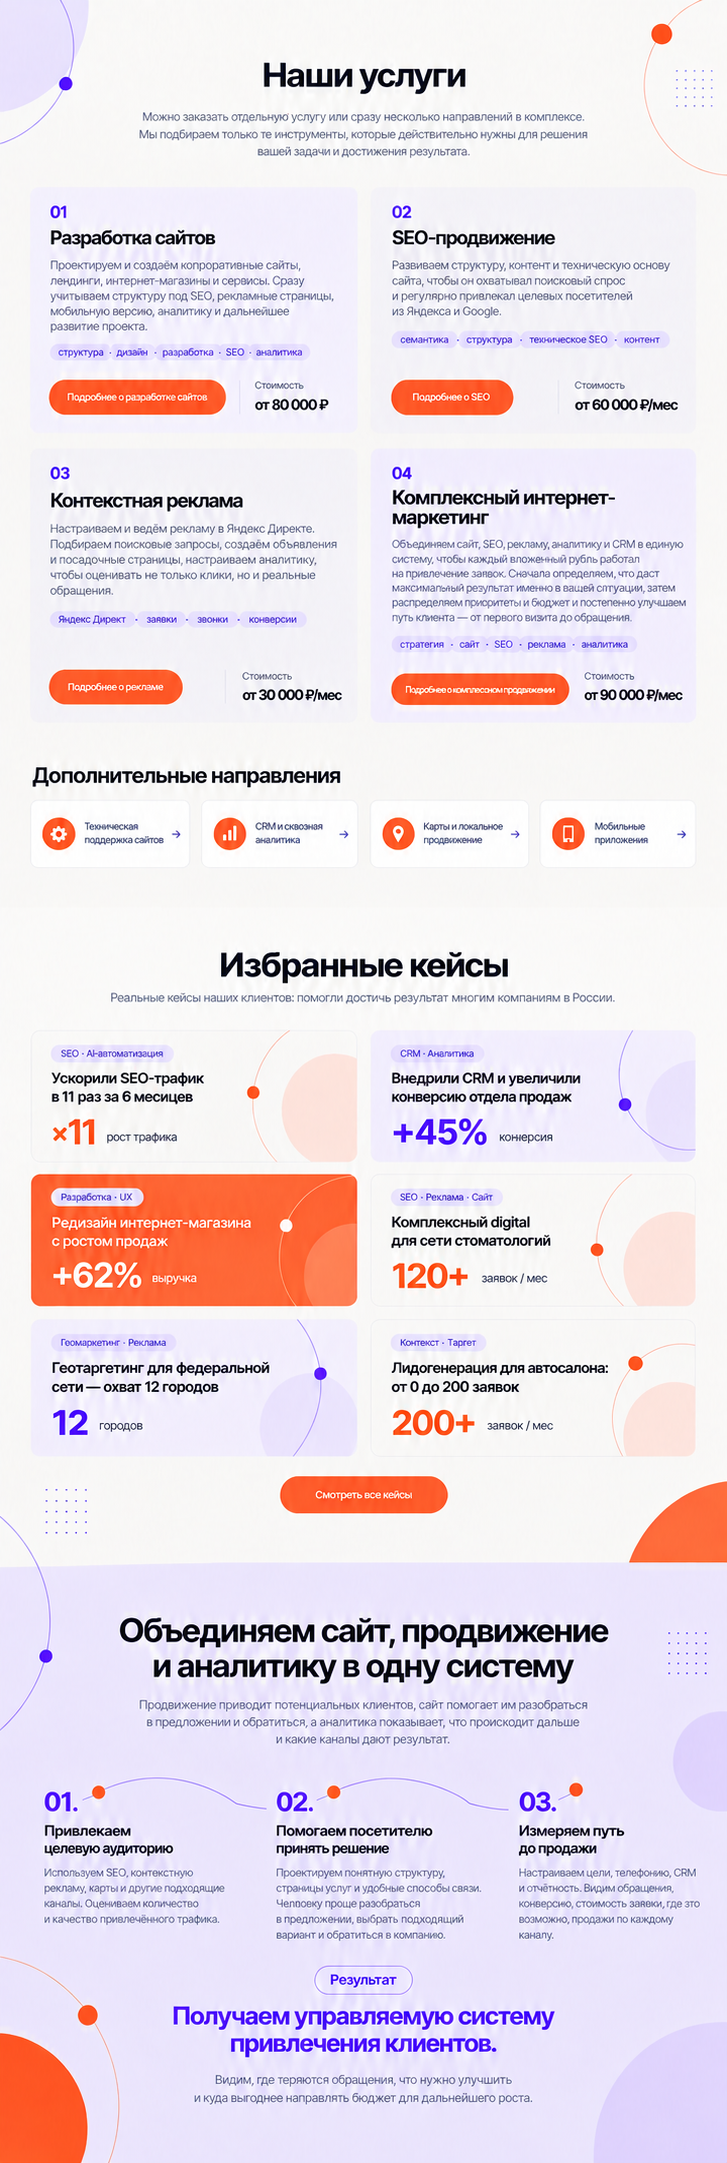
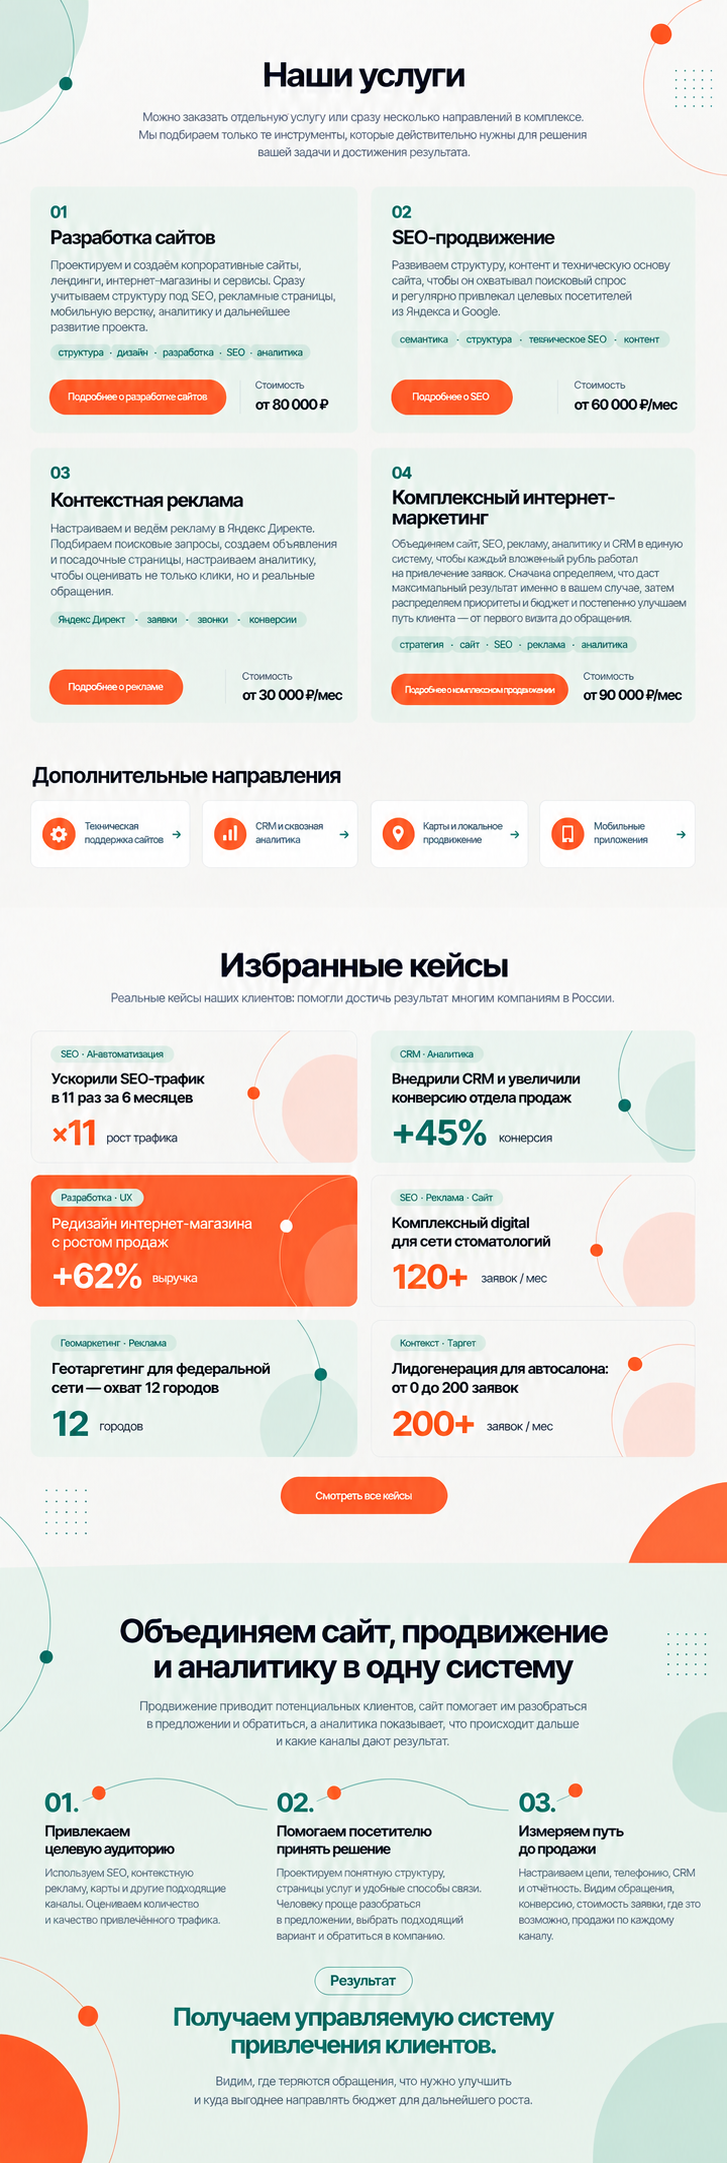
Replace purple palette in concept 05 with emerald and mint

diff --git a/concepts/new-version/index.html b/concepts/new-version/index.html
@@ -55,17 +55,17 @@
       </article>
 
       <article class="variant" id="variant-05" data-number="05">
-        <a class="preview" href="assets/variant-05.png" data-open="05" aria-label="Рассмотреть вариант 5: Масштаб и живая лента">
-          <img src="assets/variant-05.png" width="1536" height="1024" alt="Главная A1: центрированный заголовок, фиолетовые и оранжевые круги по краям, лента услуг внизу." loading="eager" decoding="async">
+        <a class="preview" href="assets/variant-05.png?v=20261008-emerald" data-open="05" aria-label="Рассмотреть вариант 5: Масштаб и живая лента">
+          <img src="assets/variant-05.png?v=20261008-emerald" width="1536" height="1024" alt="Главная A1: центрированный заголовок, мятные и оранжевые круги по краям, лента услуг внизу." loading="eager" decoding="async">
           <span class="preview-label" aria-hidden="true">Рассмотреть <svg viewBox="0 0 24 24" aria-hidden="true"><path d="M6 18 18 6M6 6h12v12"/></svg></span>
         </a>
         <div class="variant-body">
           <div class="variant-heading"><span class="variant-number">Вариант 05</span><h2>Масштаб и живая лента</h2></div>
-          <p class="description">Светлая композиция с большим заголовком по центру. Фиолетовая и оранжевая графика обрамляет текст, а лента внизу знакомит с направлениями агентства.</p>
+          <p class="description">Светлая композиция с большим заголовком по центру. Изумрудная и оранжевая графика обрамляет текст, а лента внизу знакомит с направлениями агентства.</p>
           <details><summary>Идея анимации</summary><p>Лента услуг медленно движется по горизонтали и останавливается при взаимодействии с ней.</p></details>
           <a class="text-link continuation-link" href="extended/05.html">Смотреть продолжение страницы</a>
           <div class="variant-actions">
-            <a class="text-link" href="assets/variant-05.png" data-open="05">Рассмотреть макет <svg viewBox="0 0 24 24" aria-hidden="true"><path d="M6 18 18 6M6 6h12v12"/></svg></a>
+            <a class="text-link" href="assets/variant-05.png?v=20261008-emerald" data-open="05">Рассмотреть макет <svg viewBox="0 0 24 24" aria-hidden="true"><path d="M6 18 18 6M6 6h12v12"/></svg></a>
             <button class="button choose-button" type="button" data-choose="05" aria-label="Выбрать вариант 5: Масштаб и живая лента" aria-pressed="false" hidden>Выбрать</button>
           </div>
         </div>

diff --git a/concepts/new-version/extended/05.html b/concepts/new-version/extended/05.html
@@ -24,8 +24,8 @@
     </div>
     <div class="canvas-viewport" tabindex="0" aria-label="Прокручиваемый макет">
       <div class="composition" id="composition">
-        <img class="hero-image" src="../assets/variant-05.png" width="1536" height="1024" alt="Первый экран: Масштаб и живая лента" fetchpriority="high" decoding="async">
-        <img class="continuation-image" src="assets/continuation-05.png?v=20261008-spacing" width="727" height="2163" alt="Продолжение варианта 05: четыре основные услуги и дополнительные направления, шесть кейсов, три элемента системы привлечения клиентов и результат. Все тексты доступны ниже." decoding="async">
+        <img class="hero-image" src="../assets/variant-05.png?v=20261008-emerald" width="1536" height="1024" alt="Первый экран: Масштаб и живая лента" fetchpriority="high" decoding="async">
+        <img class="continuation-image" src="assets/continuation-05.png?v=20261008-emerald" width="727" height="2163" alt="Продолжение варианта 05: четыре основные услуги и дополнительные направления, шесть кейсов, три элемента системы привлечения клиентов и результат. Все тексты доступны ниже." decoding="async">
       </div>
     </div>
     <div class="review-bottom">

diff --git a/concepts/new-version/extended/README.md b/concepts/new-version/extended/README.md
@@ -3,7 +3,7 @@
 8 октября 2026 года по запросу пользователя подготовлены продолжения трёх выбранных направлений V3. Каждая страница показывает исходный первый экран без изменений и отдельный длинный статичный макет услуг, кейсов и системного подхода.
 
 - `04.html` — «Живая типографика»: открытые строки услуг, коралловые акценты, тёмный блок кейсов.
-- `05.html` — «Масштаб и живая лента»: светлая композиция, фиолетово-оранжевая круговая графика и цветные карточки.
+- `05.html` — «Масштаб и живая лента»: светлая композиция, изумрудно-оранжевая круговая графика и мятные карточки.
 - `07.html` — «Поток — больше воздуха»: кремовые разделы, металлические ленты, тёмно-зелёные кейсы. Пояснение и два действия расположены под первым экраном.
 
 Макеты созданы встроенным генератором изображений для сравнения дизайна. Это фрагменты главной для компьютера, а не готовые страницы сайта. Управление галереей адаптировано под узкий экран; кнопку «Крупнее» можно использовать для просмотра деталей. Без JavaScript страницы и переключение вариантов остаются доступны.
@@ -13,3 +13,5 @@
 Исходные PNG первых экранов используются по прежним ссылкам. У публичных копий новых изображений удалены служебные метаданные; пиксельные данные сохранены. Промпты и материалы подготовки хранятся только в локальном проекте. Окончательное направление ещё не выбрано.
 
 По дополнительному запросу 8 октября продолжения обновлены: увеличены паузы между разделами и внутренние поля, уменьшены заголовки и выровнена типографическая иерархия. У 05 также убраны повторные номера шагов. Первые экраны и исходные тексты сохранены. Для новых изображений используется параметр версии, чтобы браузер загружал актуальные макеты.
+
+По следующему запросу фиолетовое семейство варианта 05 заменено на изумрудное и мятное в первом экране и продолжении. Композиция и оранжевые акценты сохранены; исходная фиолетовая версия остаётся в локальном архиве.
